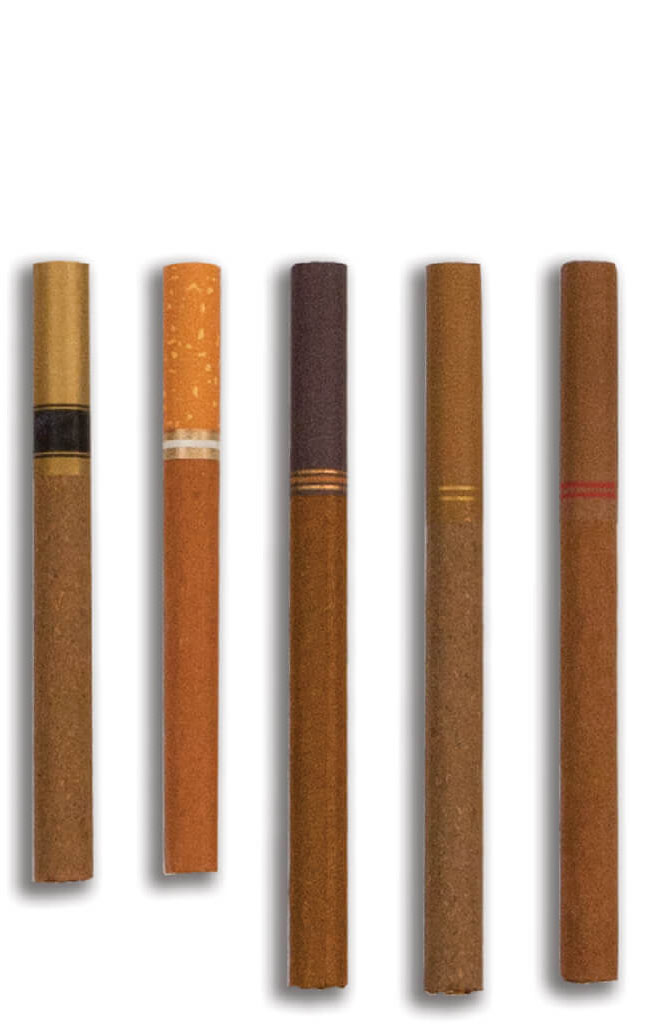
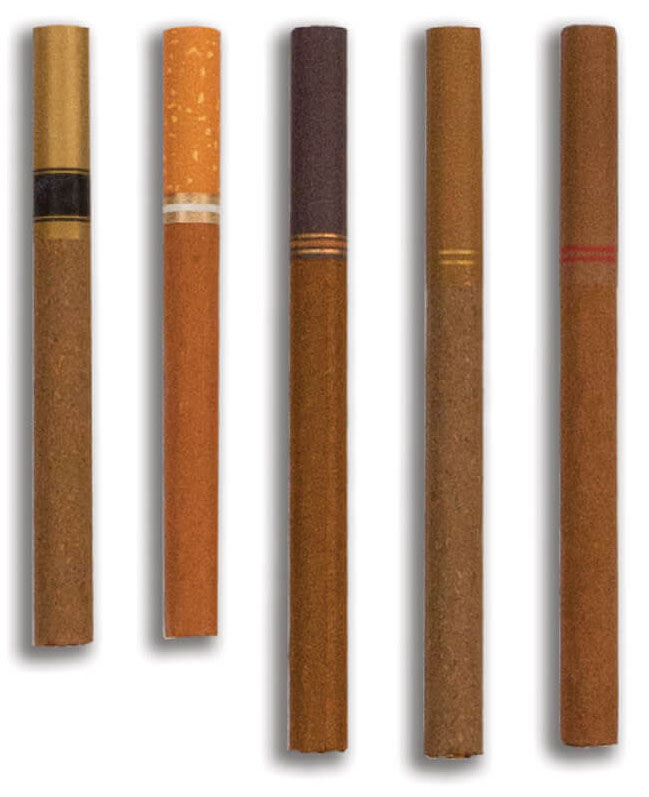
WWWEefw

diff --git a/adult-showcard.html b/adult-showcard.html
@@ -1011,7 +1011,7 @@ $('.lang-select').click(function() {
 															<div class="row">
 																<div class="col-lg-12  d-flex justify-content-around flex-wrap">
 																	<div class="d-flex flex-column">
-																		<img src="images/A8.jpg" class="img-fluid" alt="" style="padding: 1em;">
+																		<img src="images/A8.jpg" class="img-fluid" alt="" style="padding: .3em;">
 																		<p class="text-center">Traditional Cigars</p>
 																	</div>
 																	<div class="d-flex flex-column">

diff --git a/youth-showcard.html b/youth-showcard.html
@@ -1548,7 +1548,7 @@
 															<div class="row">
 																<div class="col-lg-12  d-flex justify-content-around flex-wrap">
 																	<div class="d-flex flex-column">
-																		<img src="images/A8.jpg" class="img-fluid" alt="" style="padding: 1em;">
+																		<img src="images/A8.jpg" class="img-fluid" alt="" style="padding: .3em;">
 																		<p class="text-center">Traditional Cigars</p>
 																	</div>
 																	<div class="d-flex flex-column">
